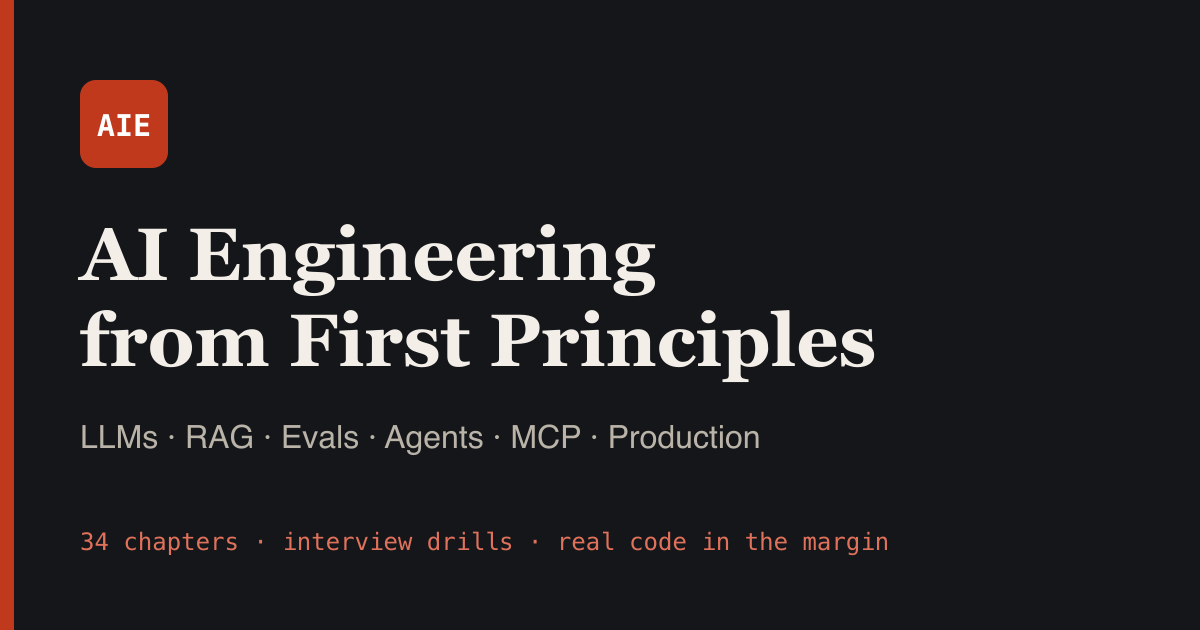
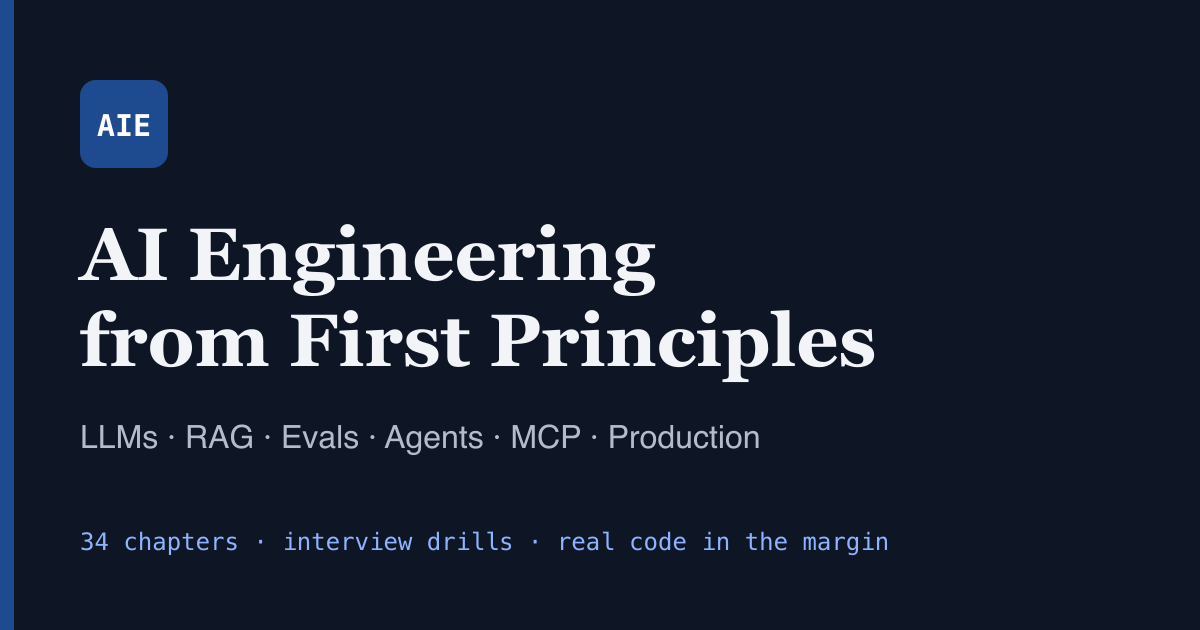
Navy colour theme

diff --git a/src/styles/tokens.css b/src/styles/tokens.css
@@ -18,7 +18,7 @@
   --bg: #fbfaf7; --surface: #f3f1ec; --surface-2: #e9e6df;
   --ink: #1d1c1a; --ink-2: #4a4843; --ink-3: #6c6962;
   --line: #e4e1da; --line-2: #d3cfc6;
-  --accent: #c1391c; --accent-ink: #ffffff; --accent-bg: #f8e9e4;
+  --accent: #1e4b8f; --accent-ink: #ffffff; --accent-bg: #e7edf7;
   --warn: #875c00; --code-bg: #1e1e1c; --code-ink: #e8e6e1;
   --ring: 0 0 0 2px var(--bg), 0 0 0 4px var(--accent);
   color-scheme: light;
@@ -27,7 +27,7 @@
   --bg: #121211; --surface: #1a1a18; --surface-2: #24241f;
   --ink: #ecebe7; --ink-2: #b9b6ae; --ink-3: #8a877f;
   --line: #2a2a26; --line-2: #3a3933;
-  --accent: #ff7a4d; --accent-ink: #1a0d07; --accent-bg: #2e1a12;
+  --accent: #8fb3ff; --accent-ink: #0a1426; --accent-bg: #16223a;
   --warn: #d9a93a; --code-bg: #1a1a17; --code-ink: #e8e6e1;
   color-scheme: dark;
 }
